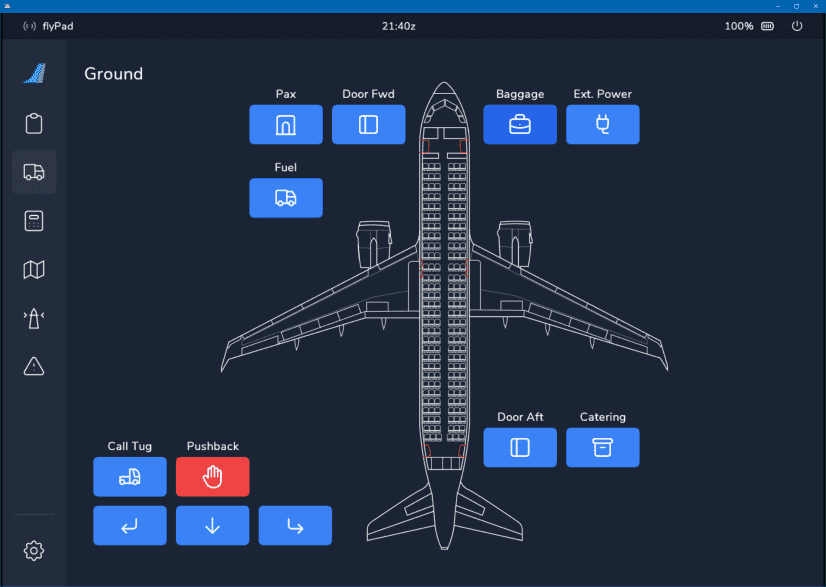
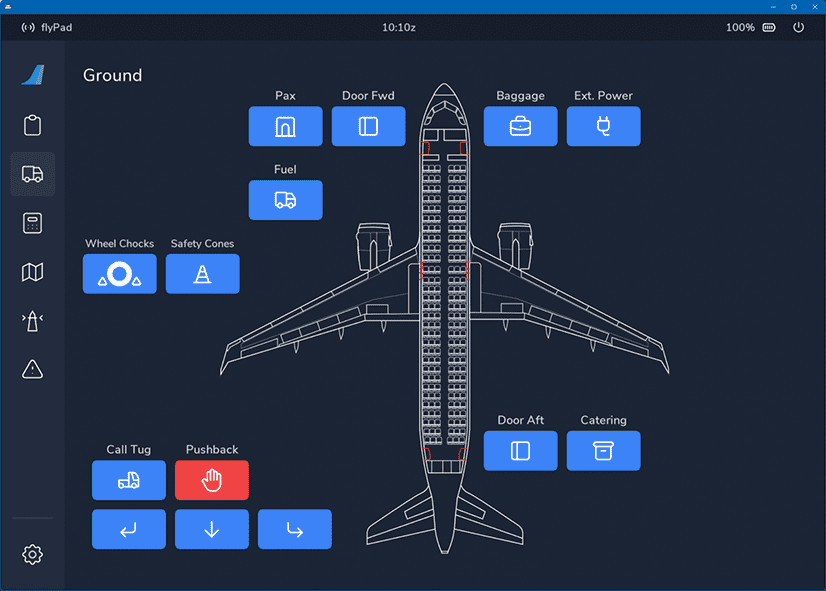
Draft for Wheel Chocks and GSE Safety Cones pages

diff --git a/docs/fbw-a32nx/feature-guides/flyPad/ground.md b/docs/fbw-a32nx/feature-guides/flyPad/ground.md
@@ -21,7 +21,6 @@ It also has more and better features than the default sim ground services.
     <span class="imagesub">Click on the menu icons in this image to see other flyPad pages.</span>
 </div>
 
-
 ## Usage
 
 ### Pax
@@ -45,7 +44,25 @@ Calls a ground power unit (GPU) if available at the current airport and gate or 
 Calls the fuel truck if available at the current airport. It will take quite a while until the fuel truck while arrive. 5-10 minutes is not unusual. When the fuel truck arrives the MSFS fuel page appears.
 
 !!! warning ""
-    We recommend to not use the MSFS Fuel Page with the FlyByWire A32NX as fuel and payload should be loaded through the [EFB's Fuel Dispatch](dispatch.md#fuel-and-de-fuel) or instant loading via the [MCDU simBrief Integration](../simbrief.md#loading-fuel-and-weight).
+    Fuel must be loaded through the [EFB's Fuel Dispatch](dispatch.md#fuel-and-de-fuel).
+
+### Wheel Chocks
+
+Enables placement of the wheel chocks if the other requirements for the wheel chocks to be visible are met:
+
+- `ENG1+2 N2` < 1%
+- `BEACON LT` is off
+- Airplane is on `GND`
+- Pushback is disconnected
+
+### Safety Cones
+
+Enables placement of the safety cones if the other requirements for the safety cones to be visible are met:
+
+- `ENG1+2 N2` < 1%
+- `BEACON LT` is off
+- Airplane is on `GND`
+- Pushback is disconnected
 
 ### Door Aft
 

diff --git a/docs/fbw-a32nx/feature-guides/chocks-cones.md b/docs/fbw-a32nx/feature-guides/chocks-cones.md
@@ -1,1 +1,21 @@
 # Wheel Chocks and<br/>GSE Safety Cones
+
+## Overview
+
+![GSE Safety Cone](../assets/feature-guides/chocks-cones/cones.png "GSE Safety Cone")
+
+![Wheel Chocks](../assets/feature-guides/chocks-cones/chocks.png "Wheel Chocks")
+
+![EFB Ground Buttons for Chocks and Cones](../assets/feature-guides/chocks-cones/efb-ground-chocks-cones-.png "EFB Ground Buttons for Chocks and Cones")
+
+## Usage
+
+Conditions:
+
+- Chocks and/or Safety Cones are activated in
+    - [EFB Ground page: Wheel Chocks](flyPad/ground.md#wheel-chocks)
+    - [EFB Ground page: Safety Cones](flyPad/ground.md#safety-cones)
+- `ENG1+2 N2` < 1%
+- `BEACON LT` is off
+- Airplane is on `GND`
+- Pushback is disconnected
